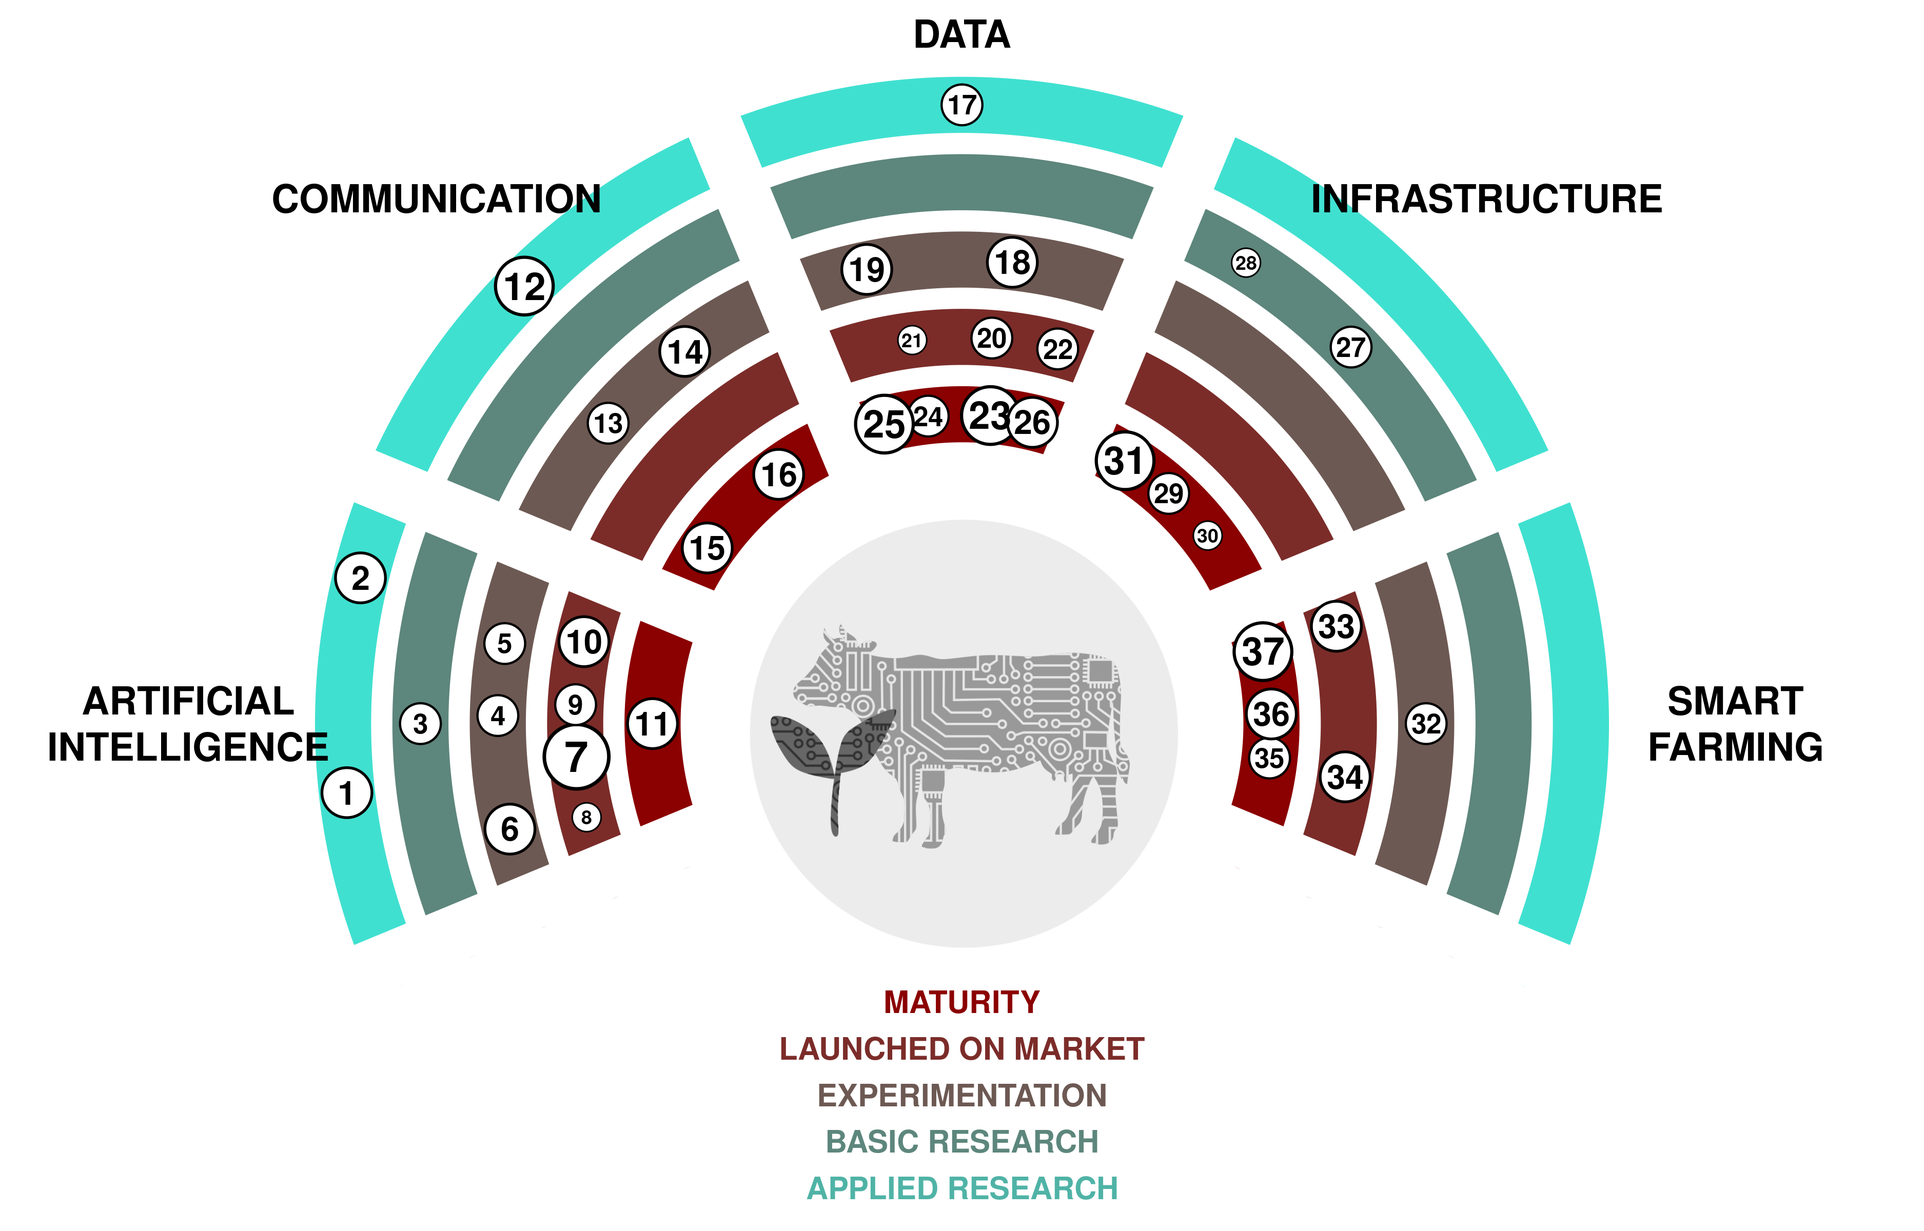
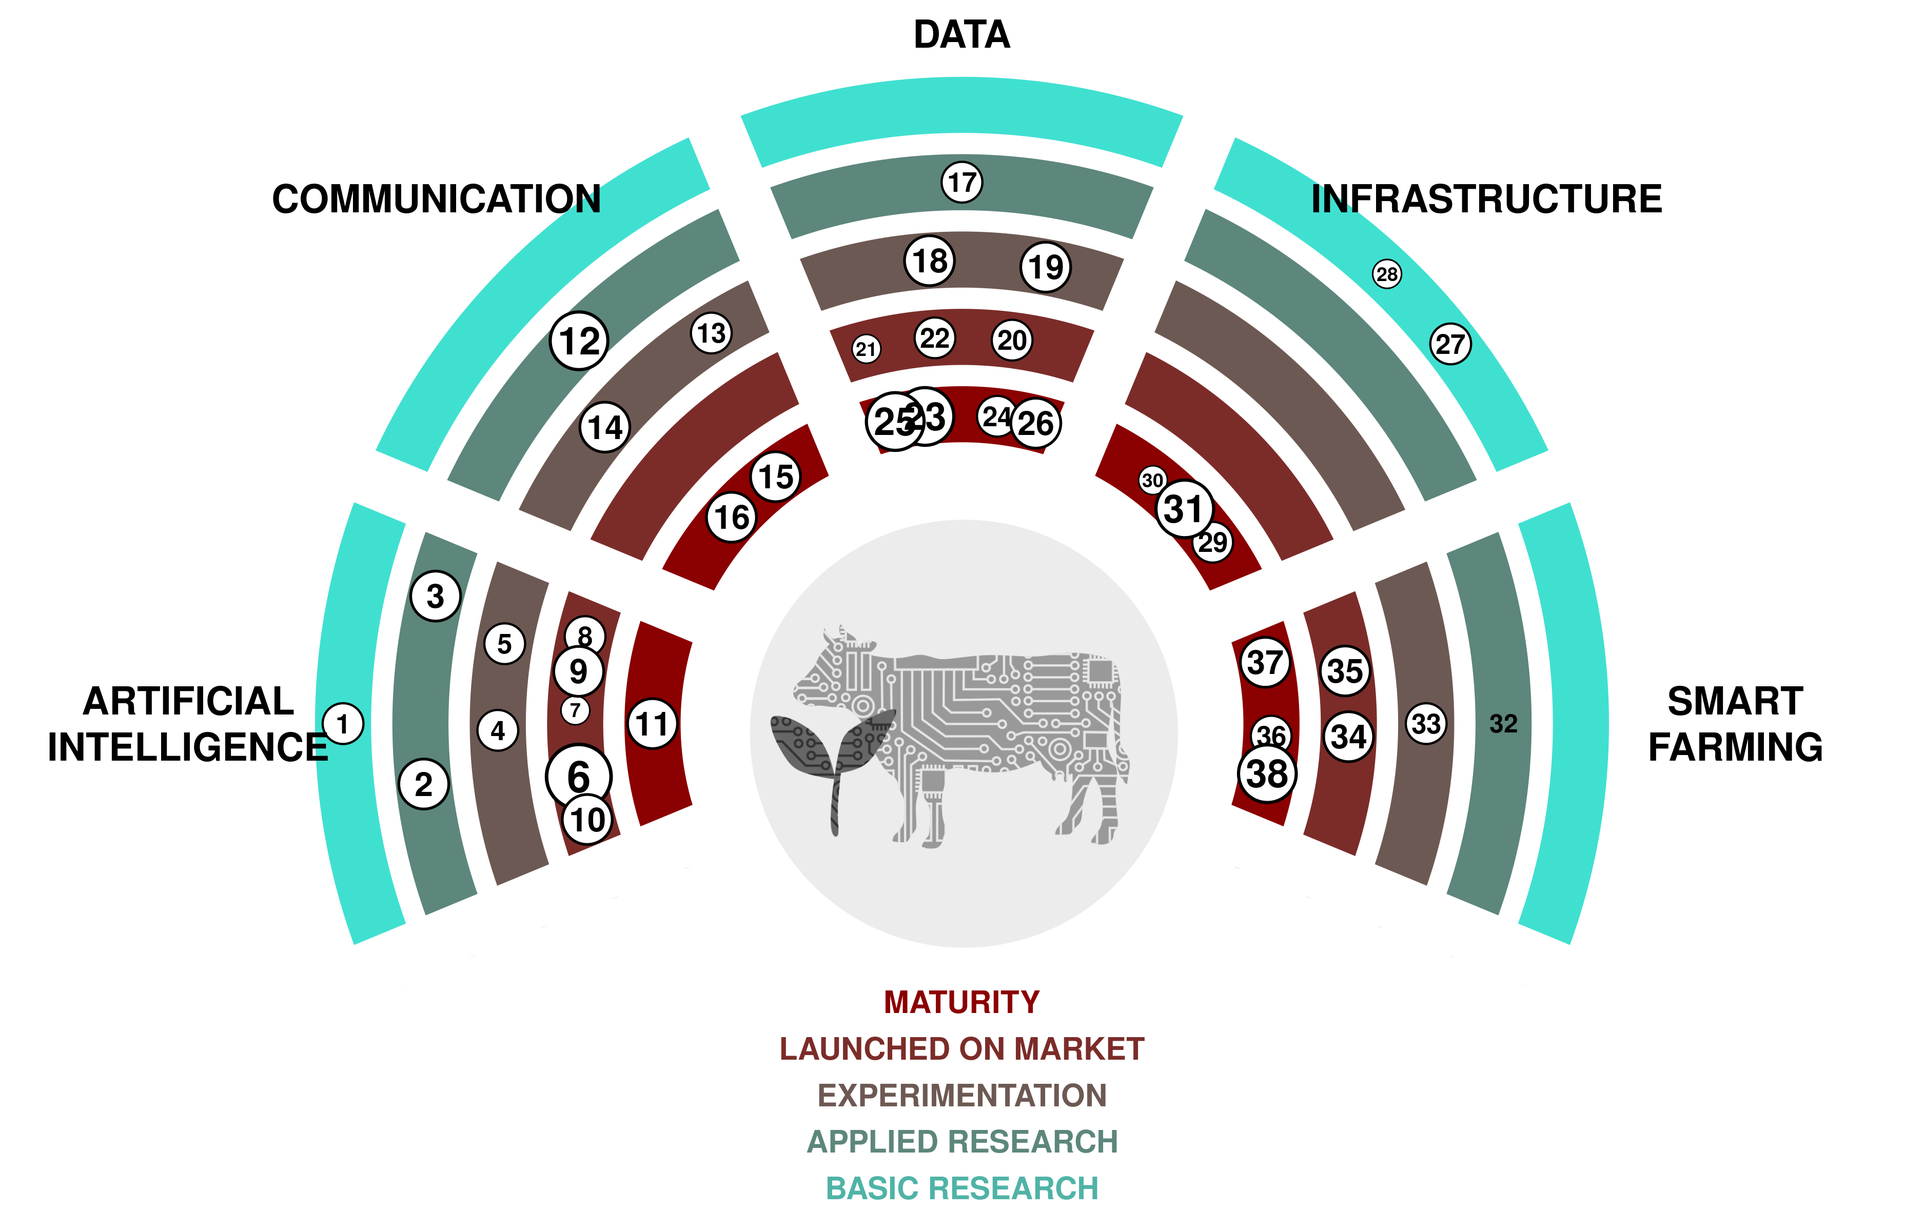
changes in various files

diff --git a/English/README.md b/English/README.md
@@ -1,76 +1,78 @@
 ![](technology-radar.png)
 
 
-(1) **AGI:** Artificial General Intelligence. A hypothetical type of intelligent agent that can learn to accomplish any intellectual task that human beings or animals can perform.
+(1) **Superintelligence:** A hypothetical agent or system that possesses intelligence far surpassing that of the brightest and most gifted human beings in virtually all domains of interest. 
 
-(2) **Real time speech translation:** Tools using Neural machine translation (NTM) allows to translate instantly speech in one language to another. Example: SpeechTrans
+(2) **AGI:** Short for Artificial General Intelligence. A hypothetical type of intelligent agent that can learn to accomplish any intellectual task that human beings can perform. 
 
-(3) **Superintelligence:** A hypothetical agent or system that possesses intelligence far surpassing that of the brightest and most gifted human minds in virtually all domains of interest.
+(3) **Real time speech translation:** Tools that allow to instantly translate speech from one language to another.  [SpeechTrans 🡥](https://speechtrans.com/)
 
-(4) **AutoML:** Der Hauptvorteil von Auto-ML liegt in der Zeitersparnis bei der Datenverarbeitung und den Testphasen, die notwendig sind, um ein ausreichend leistungsfähiges (AI) Modell in Betrieb zu nehmen.
+(4) **AutoML:** Short for Automated Machine Learning, refers to the process of automating the tasks of selecting and fine-tuning machine learning models to real-world problems. Allows for cheap model fitting wherever small data sets are available. [R package automl 🡥](https://cran.r-project.org/web/packages/automl/)
 
-(5) **text2speech:** Software that generates speech from written text which sounds like (interesting) human beings. <https://openai.com/blog/chatgpt-can-now-see-hear-and-speak>
+(5) **Text-to-speech:** Software that generates speech from written text which sounds like (interesting) human beings.  [OpenAI’s TTS 🡥](https://platform.openai.com/docs/guides/text-to-speech)
 
-(6) **Large Multimodal Models:** Large Multimodal Models (LMM) are advanced artificial intelligence systems that can process and generate information from multiple types of data, such as text, images, audio, and video, using powerful pre-trained language models as a core component.
+(6) **Large Language Models:** Systems that are capable of generating written text in a human-like manner.  [ChatGPT 🡥](https://chat.openai.com/)
 
-(7) **Large Language Models:** Machine learning models capable of generating written text in a human-like manner. GPT-3.5, GPT-4, Bard, Claude 2, LLAMA.
+(7) **Facial Recognition:** Software that can measure the similarity of faces from images or video, thus recognizing faces.  [PimEyes 🡥](https://pimeyes.com/)
 
-(8) **Facial Recognition:** Software that can measure the similarity of faces from images or video, thus recognizing faces. <http://clearview.ai> <https://pimeyes.com>
+(8) **Latent Diffusion Models:** Models that generate arbitrary images from text, image or parameter inputs.  [Midjourney 🡥](https://www.midjourney.com/)
 
-(9) **Latent Diffusion Models:** Neural network models that allows high resolution image synthesis using less resources than other methods (GAN, VAE, ARM). Can generate images from text input, remove objects on images. GitHub - CompVis/latent-diffusion: High-Resolution Image Synthesis with Latent Diffusion Models.
+(9) **Speech-to-text:** Machine learning models that convert speech of various languages to text.  [Whisper 🡥](https://openai.com/research/whisper)
 
-(10) **speech2text:** Machine learning models that convert speech of various languages to text. Speech2Text-App
+(10) **Large Multimodal Models:** Advanced artificial intelligence systems that can process information from multiple types of data, such as text, images, audio, and video, using powerful pre-trained language models as a core component.  [GPT-4 🡥](https://openai.com/blog/chatgpt-can-now-see-hear-and-speak)
 
-(11) **Machine Translation:** Software that automatically translates text from one language to another. <https://www.deepl.com>
+(11) **Machine Translation:** Software that automatically translates text from one language to another.  [Deepl 🡥](https://deepl.com/)
 
-(12) **Social Media Management and Monitoring:** Analysiere und verstehe deine Wirkung in sozialen Medien.
+(12) **Social Media Management and Monitoring:** Tracking, analyzing, and responding to content on social media platforms to manage an organization's or individual's online presence and reputation. 
 
-(13) **Realistic Metaverse Avatars:** Refer to interview Mark Zuckerberg on Lex Fridman.
+(13) **Metaverse Avatars:** Realistic looking Avatars that allow for a seemingly natural presence in the Metaverse. This technology could allow for a more direct connection during remote meetings. [ 🡥](https://www.youtube.com/watch?v=MVYrJJNdrEg)
 
-(14) **Multi-stakeholder platforms:** Agridata (data exchange platform)
+(14) **Multi-stakeholder platforms:** Agridata (data exchange platform) 
 
-(15) **TikTok:** Social media platform based on creating, watching and sharing short videos. TikTok - Make Your Day
+(15) **TikTok:** Social media platform centered around short-form video content, popular for its wide range of user-generated music, dance, comedy, and creative videos.  [TikTok 🡥](https://www.tiktok.com/)
 
-(16) **Atlassian Software:** Jira, Confluence, Bitbucket are useful technologies, tools for planning, tracking, work organization, document creation, and/or collaborate on code. Products | Atlassian
+(16) **Atlassian Software:** Jira, Confluence, Bitbucket are useful technologies, tools for planning, tracking, work organization, document creation, and/or collaborate on code. Products | Atlassian 
 
-(17) **Next generation sequencing:** Technology used to sequence DNA, RNA. Can be used in several fields like the study of seeds and plant varieties, GMO control. Next-Generation Sequencing (NGS) | Explore the technology (illumina.com)
+(17) **Next generation sequencing:** Technology used to sequence DNA, RNA. Can be used in several fields like the study of seeds and plant varieties, GMO control. Next-Generation Sequencing (NGS) | Explore the technology (illumina.com) 
 
-(18) **Green-IT:** Lösungen zu schaffen und aufzubauen, die Auswirkungen menschlicher Aktivitäten auf die Umwelt zu verringern oder andere umweltfreundliche Maßnahmen im IT-Bereich zu ergreifen.
+(18) **Green-IT:** Lösungen zu schaffen und aufzubauen, die Auswirkungen menschlicher Aktivitäten auf die Umwelt zu verringern oder andere umweltfreundliche Maßnahmen im IT-Bereich zu ergreifen. 
 
-(19) **Digital twin:** Virtual representation of a system (e.g. farm) based on sensors and real-time data to make data-driven decisions
+(19) **Digital twin:** Virtual representation of a system (e.g. a farm) based on sensors and real-time data to make data-driven decisions. 
 
-(20) **Linked open data:** Linked Open Data is a way of publishing and connecting data on the web using open standards and URIs such that it can be easily accessed, queried, and enriched by humans and machines.
+(20) **Linked open data:** Linked Open Data is a way of publishing and connecting data on the web using open standards and URIs such that it can be easily accessed, queried, and enriched by humans and machines. 
 
-(21) **ESG:** Environmental, Social and Corporate Governance. Framework to assess an organization regarding environmenteal, social and governance standards.
+(21) **ESG:** Environmental, Social and Corporate Governance. Framework to assess an organization regarding environmenteal, social and governance standards. 
 
-(22) **Vertical farming:** Producing plants in a tightly controlled environment. Decisions about ressources are data driven.
+(22) **Vertical farming:** Producing plants in a tightly controlled environment. Decisions about ressources are data driven. 
 
-(23) **Open government data:** Governmental data that is openly accessible to the public. In Switzerland, available open government data is listed on opendata.swiss.
+(23) **Open government data:** Governmental data that is openly accessible to the public. In Switzerland, available open government data is listed on opendata.swiss. 
 
-(24) **Resource Description Framework:** Framework to represent interconnected data on the web (semantic web). Used as standard to describe and visualize metadata.
+(24) **Resource Description Framework:** Framework to represent interconnected data on the web (semantic web). Used as standard to describe and visualize metadata. 
 
-(25) **i14y:** Interoperability platform. Switzerland’s national data catalogue
+(25) **i14y:** Interoperability platform. Switzerland’s national data catalogue. 
 
-(26) **visualize.admin.ch:** Visualization tool of OGD data on LINDAS: visualize.admin.ch
+(26) **visualize.admin.ch:** Visualization tool for open government data published on LINDAS:  [visualize.admin.ch 🡥](https://www.visualize.admin.ch)
 
-(27) **Biomolecular data storage:** Store Data in DNA is a promising way. DNA can store a density of 10¹⁹ bits of data per cm3 which is way higher than the actual storage methods. The data will be stored according to the binary code where for instance 00 -> A, 01 -> C, 10 -> G and T -> 11. DNA will be sequenced through NGS (Illumina). BioTech | Free Full-Text | DNA Data Storage (mdpi.com) Example: coded 16GB of Wikipedia in DNA. Startup packs all 16GB of Wikipedia onto DNA strands to demonstrate new storage tech - CNET
+(27) **Biomolecular data storage:** Store Data in DNA is a promising way. DNA can store a density of 10¹⁹ bits of data per cm3 which is way higher than the actual storage methods. The data will be stored according to the binary code where for instance 00 -> A, 01 -> C, 10 -> G and T -> 11. DNA will be sequenced through NGS (Illumina). BioTech | Free Full-Text | DNA Data Storage (mdpi.com) Example: coded 16GB of Wikipedia in DNA. Startup packs all 16GB of Wikipedia onto DNA strands to demonstrate new storage tech - CNET 
 
-(28) **Quantum-Computing:** 
+(28) **Quantum-Computing:** Quantum computing is a type of computing that uses quantum-mechanical phenomena, such as superposition and entanglement, to perform operations on data, potentially solving complex problems faster than classical computers. 
 
-(29) **GPU-Clusters:** Computer cluster where each node (at least some) will be equipped with Graphics Processing Unit. Useful for AI analysis. Examples: AWS and NVIDIA (amazon.com), Google Cloud.
+(29) **GPU-Clusters:** Computer cluster that is equipped with gaphical processing units. Usefull for training and running large machine learning models.  [AWS 🡥](https://aws.amazon.com/nvidia/)
 
-(30) **Data Virtualization:** 
+(30) **Data Virtualization:** Data virtualization is a technology that allows for the retrieval and manipulation of data without requiring technical details about the data, such as how it is formatted or where it is physically located. 
 
-(31) **Cloud computing:** 
+(31) **Cloud computing:** Cloud computing is the delivery of different services through the Internet, including data storage, servers, databases, networking, and software, often providing flexible resources, faster innovation, and economies of scale. 
 
-(32) **Variable rate fertilization:** Gleich aber für Düngung
+(32) **Digital ear tags:** Ear tags that allow to geographically track farm animals. 
 
-(33) **Weeding robots:** Intelligentes Sprühen für lokale Behandlungen Ihrer Reihenkulturen, Gräser und Rasenflächen
+(33) **Variable rate fertilization:** Fertilization that locally adapts to the needs of the plants. 
 
-(34) **UAV imaging:** Luftbildaufnahmen durch Drohnen. Können dazu verwendet werden, Wasserstress zu erkennen oder Nährstoffkarten zu erstellen.
+(34) **Weeding robots:** Robots which specifically target weeds in a field. Weeds may be destroyed using herbicides, hoes, water or lasers. 
 
-(35) **IoT:** Network of devices that collect data.
+(35) **UAV imaging:** UAV imaging refers to the process of capturing images and videos from the air using unmanned aerial vehicles (drones), commonly used for purposes like surveying, mapping, and surveillance. 
 
-(36) **Milking robots:** 
+(36) **IoT:** Network of devices that collect data. 
 
-(37) **Satellite imaging:** Use cases such as determining the vegetation cover period by satellite data.
+(37) **Milking robots:** A milking robot is an automated machine designed to handle the entire process of milking dairy cows, reducing the need for human labor in dairy farming. Could automatically send milk data needed for administrative purposes. [Moser Stalleinrichtungen 🡥](http://www.moser-stalleinrichtungen.ch)
+
+(38) **Satellite imaging:** Satellite imaging involves capturing images of the Earth from orbiting satellites, which are used for various purposes such as weather forecasting, mapping, and environmental monitoring. Could be used to determine the vegetation cover period by satellite data.

diff --git a/German/README.md b/German/README.md
@@ -1,76 +1,5 @@
 ![](technology-radar.png)
-
-
-(1) **Next-Generation-Sequenzierung:** Technologie zur Sequenzierung von DNA, RNA. Kann in verschiedenen Bereichen wie der Untersuchung von Samen und Pflanzensorten, GMO-Kontrolle angewendet werden. Next-Generation Sequencing (NGS) | Erkunden Sie die Technologie (illumina.com)
-
-(2) **Verknüpfte offene Daten:** Linked Open Data ist eine Methode, Daten im Web unter Verwendung offener Standards und *URIs* zu veröffentlichen und zu verbinden, so dass sie leicht von Menschen und Maschinen abgerufen, abgefragt und angereichert werden können.
-
-(3) ***ESG*:** Umwelt-, Soziale und Unternehmensführung. Rahmenwerk zur Bewertung einer Organisation hinsichtlich Umwelt-, Sozial- und Governance-Standards.
-
-(4) **Vertikale Landwirtschaft:** Pflanzenproduktion in einer streng kontrollierten Umgebung. Entscheidungen über Ressourcen sind datenbasiert.
-
-(5) **Grüne-IT:** Lösungen zu schaffen und aufzubauen, die die Auswirkungen menschlicher Aktivitäten auf die Umwelt minimieren oder andere umweltfreundliche Maßnahmen im *IT-Bereich* ergreifen.
-
-(6) **Digitaler Zwilling:** Virtuelle Darstellung eines Systems (z.B. Bauernhof) basiert auf Sensoren und Echtzeitdaten, um datengetriebene Entscheidungen zu treffen.
-
-(7) **Offene Regierungsdaten:** Regierungsdaten, die der Öffentlichkeit offen zugänglich sind. In der Schweiz werden verfügbare Open-Government-Daten auf *opendata.swiss* aufgelistet.
-
-(8) **Ressourcenbeschreibungs-Framework:** Rahmenwerk zur Darstellung vernetzter Daten im Web (Semantic Web). Wird als Standard zur Beschreibung und Visualisierung von Metadaten verwendet.
-
-(9) **i14y:** Interoperabilitätsplattform. Schweizer Nationaler Datenkatalog
-
-(10) **visualize.admin.ch:** Visualisierungstool für OGD-Daten auf LINDAS: visualize.admin.ch
-
-(11) **Biomolekulare Datenspeicherung:** Daten in DNA zu speichern ist ein vielversprechender Weg. DNA kann eine Dichte von 10¹⁹ Bits Daten pro cm³ speichern, was deutlich höher ist als bei den aktuellen Speichermethoden. Die Daten werden gemäß dem Binärcode gespeichert, bei dem zum Beispiel 00 -> A, 01 -> C, 10 -> G und T -> 11 zugeordnet wird. Die DNA wird durch NGS (Illumina) sequenziert. BioTech | Free Full-Text | DNA-Datenspeicherung (mdpi.com) Beispiel: 16GB Wikipedia-Daten in DNA codiert. Ein Startup packt alle 16GB von Wikipedia auf DNA-Stränge, um eine neue Speichertechnologie zu demonstrieren - CNET.
-
-(12) **Quanten-Computing:** Expression not found. Please provide the text you would like to translate.
-
-(13) ***GPU*-Cluster:** Computer-Cluster, bei dem jeder Knoten (zumindest einige) mit einer *Graphics Processing Unit* ausgestattet sein wird. Nützlich für die AI-Analyse. Beispiele: AWS und NVIDIA (amazon.com), Google Cloud.
-
-(14) **Daten-Virtualisierung:** You did not provide any expression or sentence to translate. Could you please resend your request?
-
-(15) **Cloud-Computing:** The expression to be translated was not provided. Could you provide the expression you want to be translated into German?
-
-(16) **Soziale Medien Verwaltung und Überwachung:** Analysiere und verstehe deine Auswirkung in *sozialen Medien*.
-
-(17) **Realistische *Metaverse* Avatare:** Beziehen Sie sich auf das Interview mit Mark Zuckerberg bei Lex Fridman.
-
-(18) **Plattformen mit mehreren Interessengruppen:** Agridata (*Datenaustauschplattform*)
-
-(19) ***TikTok*:** Soziale Medienplattform, die auf der Erstellung, Betrachtung und dem Teilen von kurzen Videos basiert. *TikTok* - Gestalte deinen Tag.
-
-(20) **Atlassian Software:** Jira, Confluence, Bitbucket sind nützliche Technologien, Werkzeuge für Planung, Verfolgung, Arbeitsorganisation, Dokumentenerstellung und/oder Zusammenarbeit am Code. Produkte | Atlassian
-
-(21) ***AGI*:** Allgemeine Künstliche Intelligenz. Eine hypothetische Art von intelligentem Agenten, der lernen kann, jede intellektuelle Aufgabe zu erfüllen, die Menschen oder Tiere ausführen können.
-
-(22) **Echtzeit-Sprachübersetzung:** Tools, die neuronale maschinelle Übersetzung (NTM) verwenden, ermöglichen die sofortige Übersetzung von Sprache von einer Sprache in eine andere. Beispiel: *SpeechTrans*
-
-(23) **Große Sprachmodelle:** Maschinelles Lernen-Modelle, die in der Lage sind, Texte auf menschenähnliche Weise zu generieren. *GPT-3.5*, *GPT-4*, *Bard*, *Claude 2*, *LLAMA*.
-
-(24) **Gesichtserkennung:** Software, die in der Lage ist, die Ähnlichkeit von Gesichtern aus Bildern oder Videos zu messen und somit Gesichter zu erkennen. <http://clearview.ai> <https://pimeyes.com>
-
-(25) **Latente Diffusionsmodelle:** Neuronale Netzwerkmodelle, die eine hochauflösende Bildsynthese ermöglichen und weniger Ressourcen benötigen als andere Methoden (GAN, VAE, ARM). Kann Bilder aus Texteingabe generieren, Objekte auf Bildern entfernen. GitHub - CompVis/latent-diffusion: Hochauflösende Bildsynthese mit *Latent Diffusion Models*.
-
-(26) **Speech2Text:** Maschinelles Lernen Modelle, die Sprache verschiedener Sprachen in Text umwandeln. *Speech2Text-App*
-
-(27) ***AutoML*:** Der Hauptvorteil von Auto-ML besteht in der Zeitersparnis bei der Datenverarbeitung und den Testphasen, die notwendig sind, um ein ausreichend leistungsfähiges *AI*-Modell in Betrieb zu nehmen.
-
-(28) **Text-zu-Sprache:** Software, die aus geschriebenem Text Sprache erzeugt, die wie (interessante) Menschen klingt. <https://openai.com/blog/chatgpt-can-now-see-hear-and-speak>
-
-(29) **Große Multimodale Modelle:** Große multimodale Modelle (LMM) sind fortschrittliche künstliche Intelligenzsysteme, die Informationen aus verschiedenen Datentypen, wie Text, Bildern, Audio und Video, verarbeiten und generieren können. Sie verwenden dabei leistungsstarke vortrainierte Sprachmodelle als zentralen Bestandteil.
-
-(30) **Superintelligenz:** Ein hypothetischer Agent oder System, welcher eine Intelligenz besitzt, die die der hellsten und begabtesten menschlichen Köpfe in praktisch allen Interessensgebieten bei weitem übertrifft.
-
-(31) **Maschinenübersetzung:** Software, die Text automatisch von einer Sprache in eine andere übersetzt. <https://www.deepl.com>
-
-(32) ***Weeding Robots*:** Intelligentes Besprühen für lokale Behandlung Ihrer *Reihenkulturen*, Gräser und Rasenflächen
-
-(33) **UAV-Bildgebung:** Luftaufnahmen durch Drohnen. Können genutzt werden, um Wasserstress zu erkennen oder *Nährstoffkarten* zu erstellen.
-
-(34) **Düngung mit variabler Rate:** Aber gleich für die *Düngung*
-
-(35) ***IoT*:** Netzwerk von Geräten, die Daten sammeln.
-
-(36) **Melkroboter:** You did not provide an expression to translate.
-
-(37) **Satellitenbildgebung:** Anwendungsfälle wie die Bestimmung der Vegetationsabdeckungsperiode durch *Satellitendaten*.
+[1] "daten"                  "infrastruktur"          "kommunikation"          "künstliche intelligenz"
+[5] "smart farming"         
+null device 
+          1 
